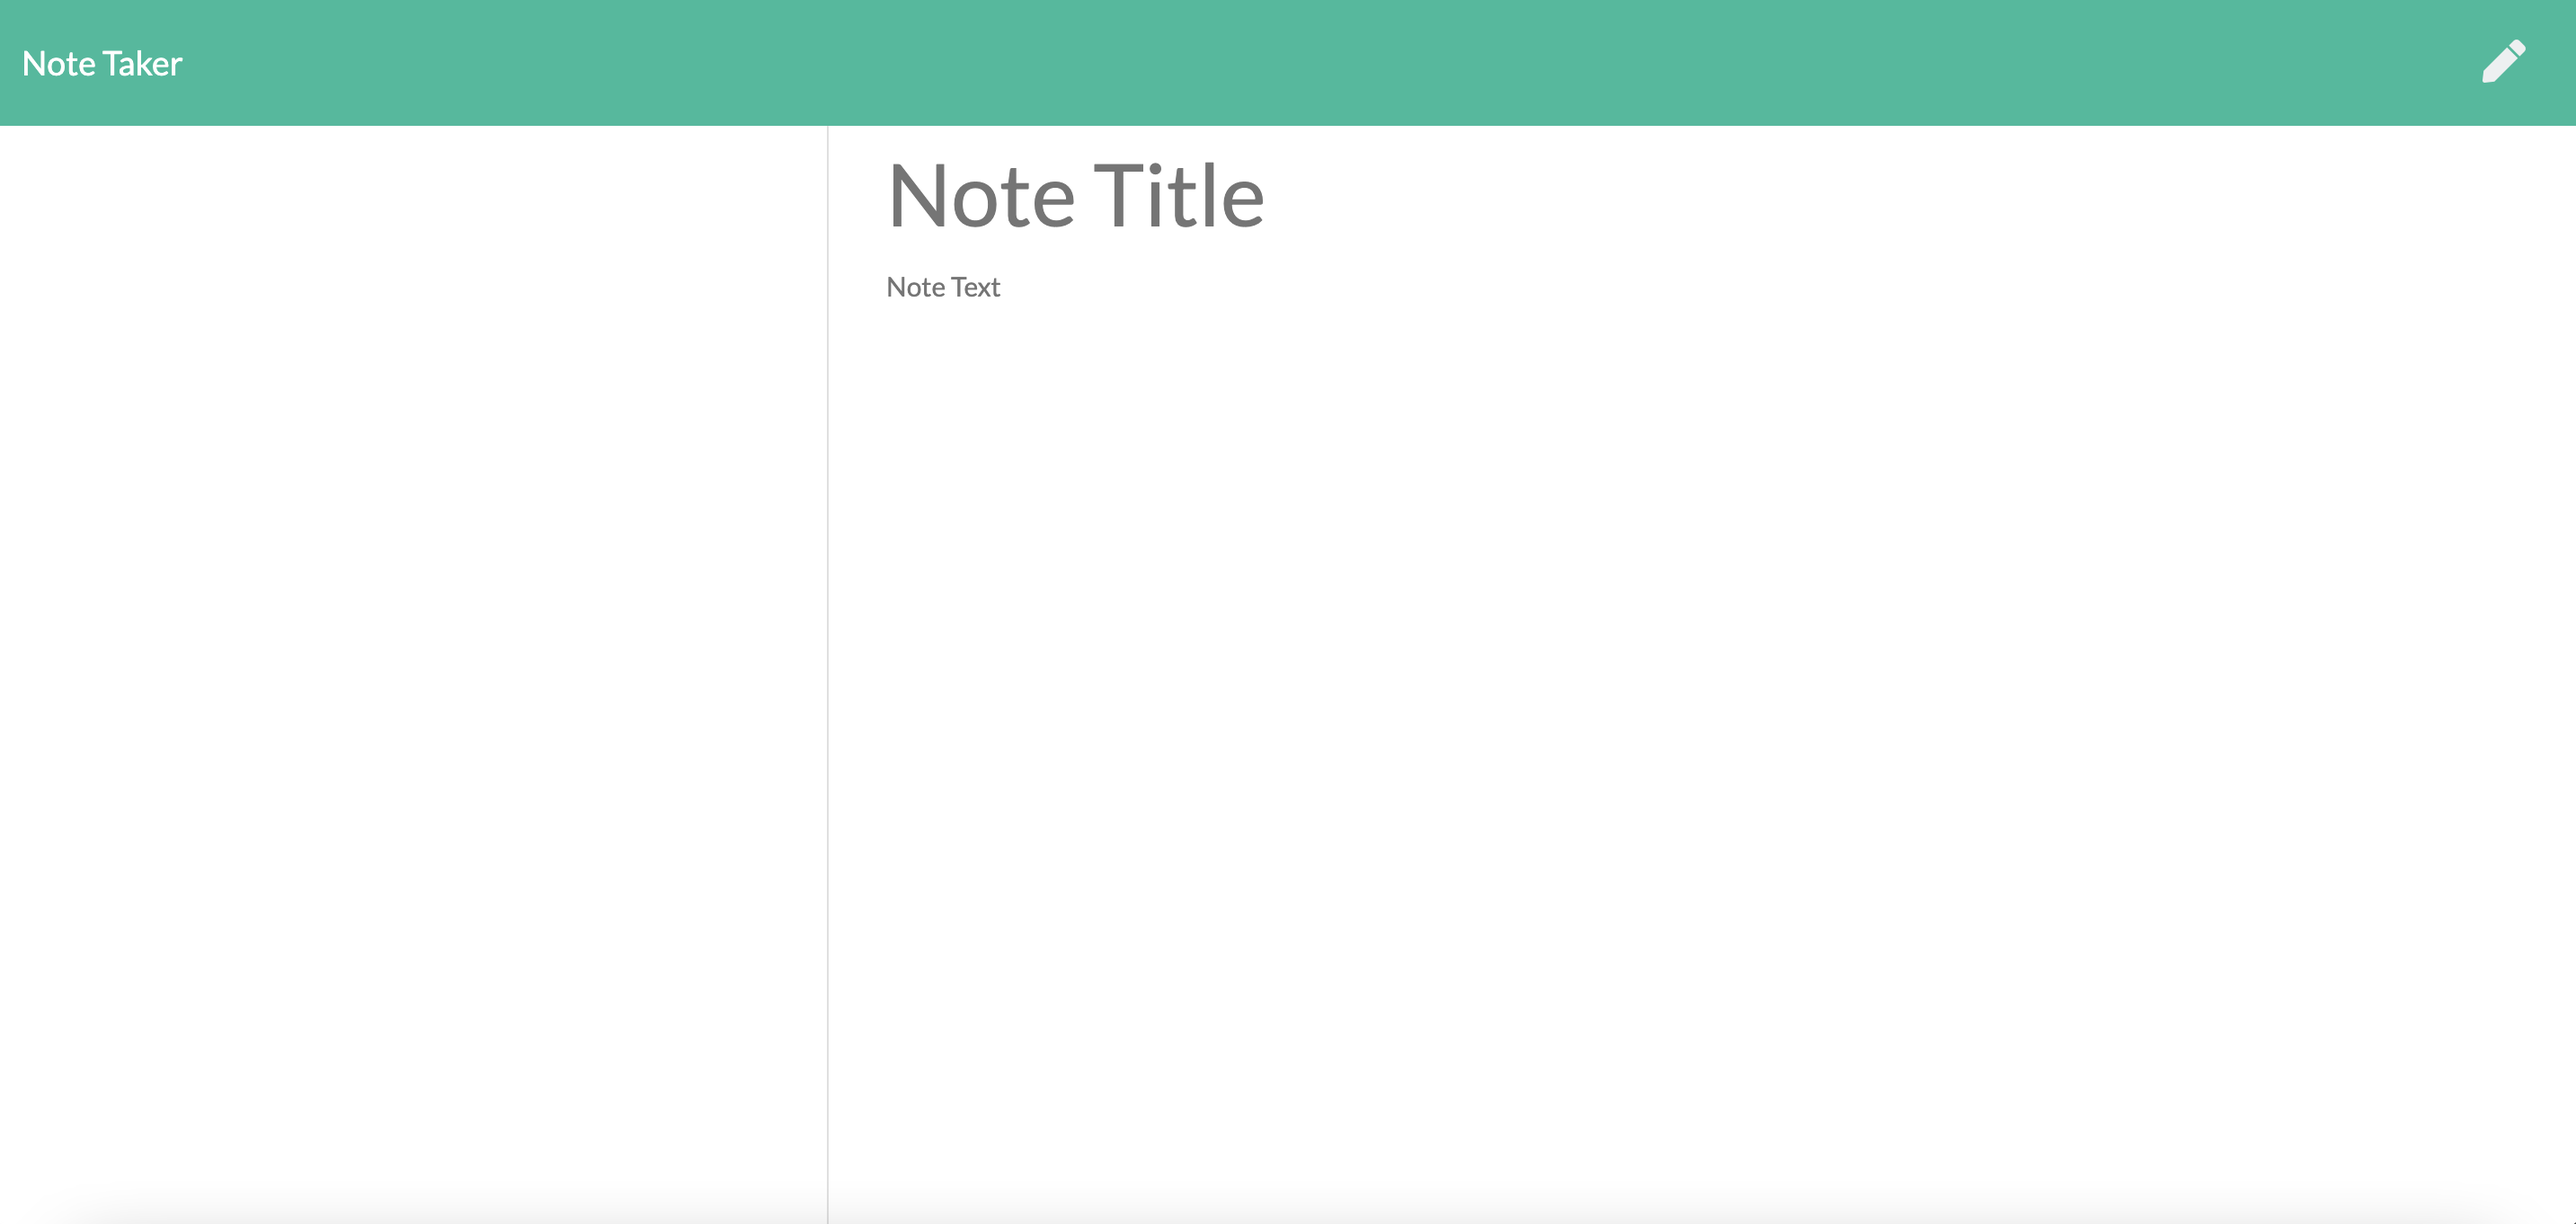
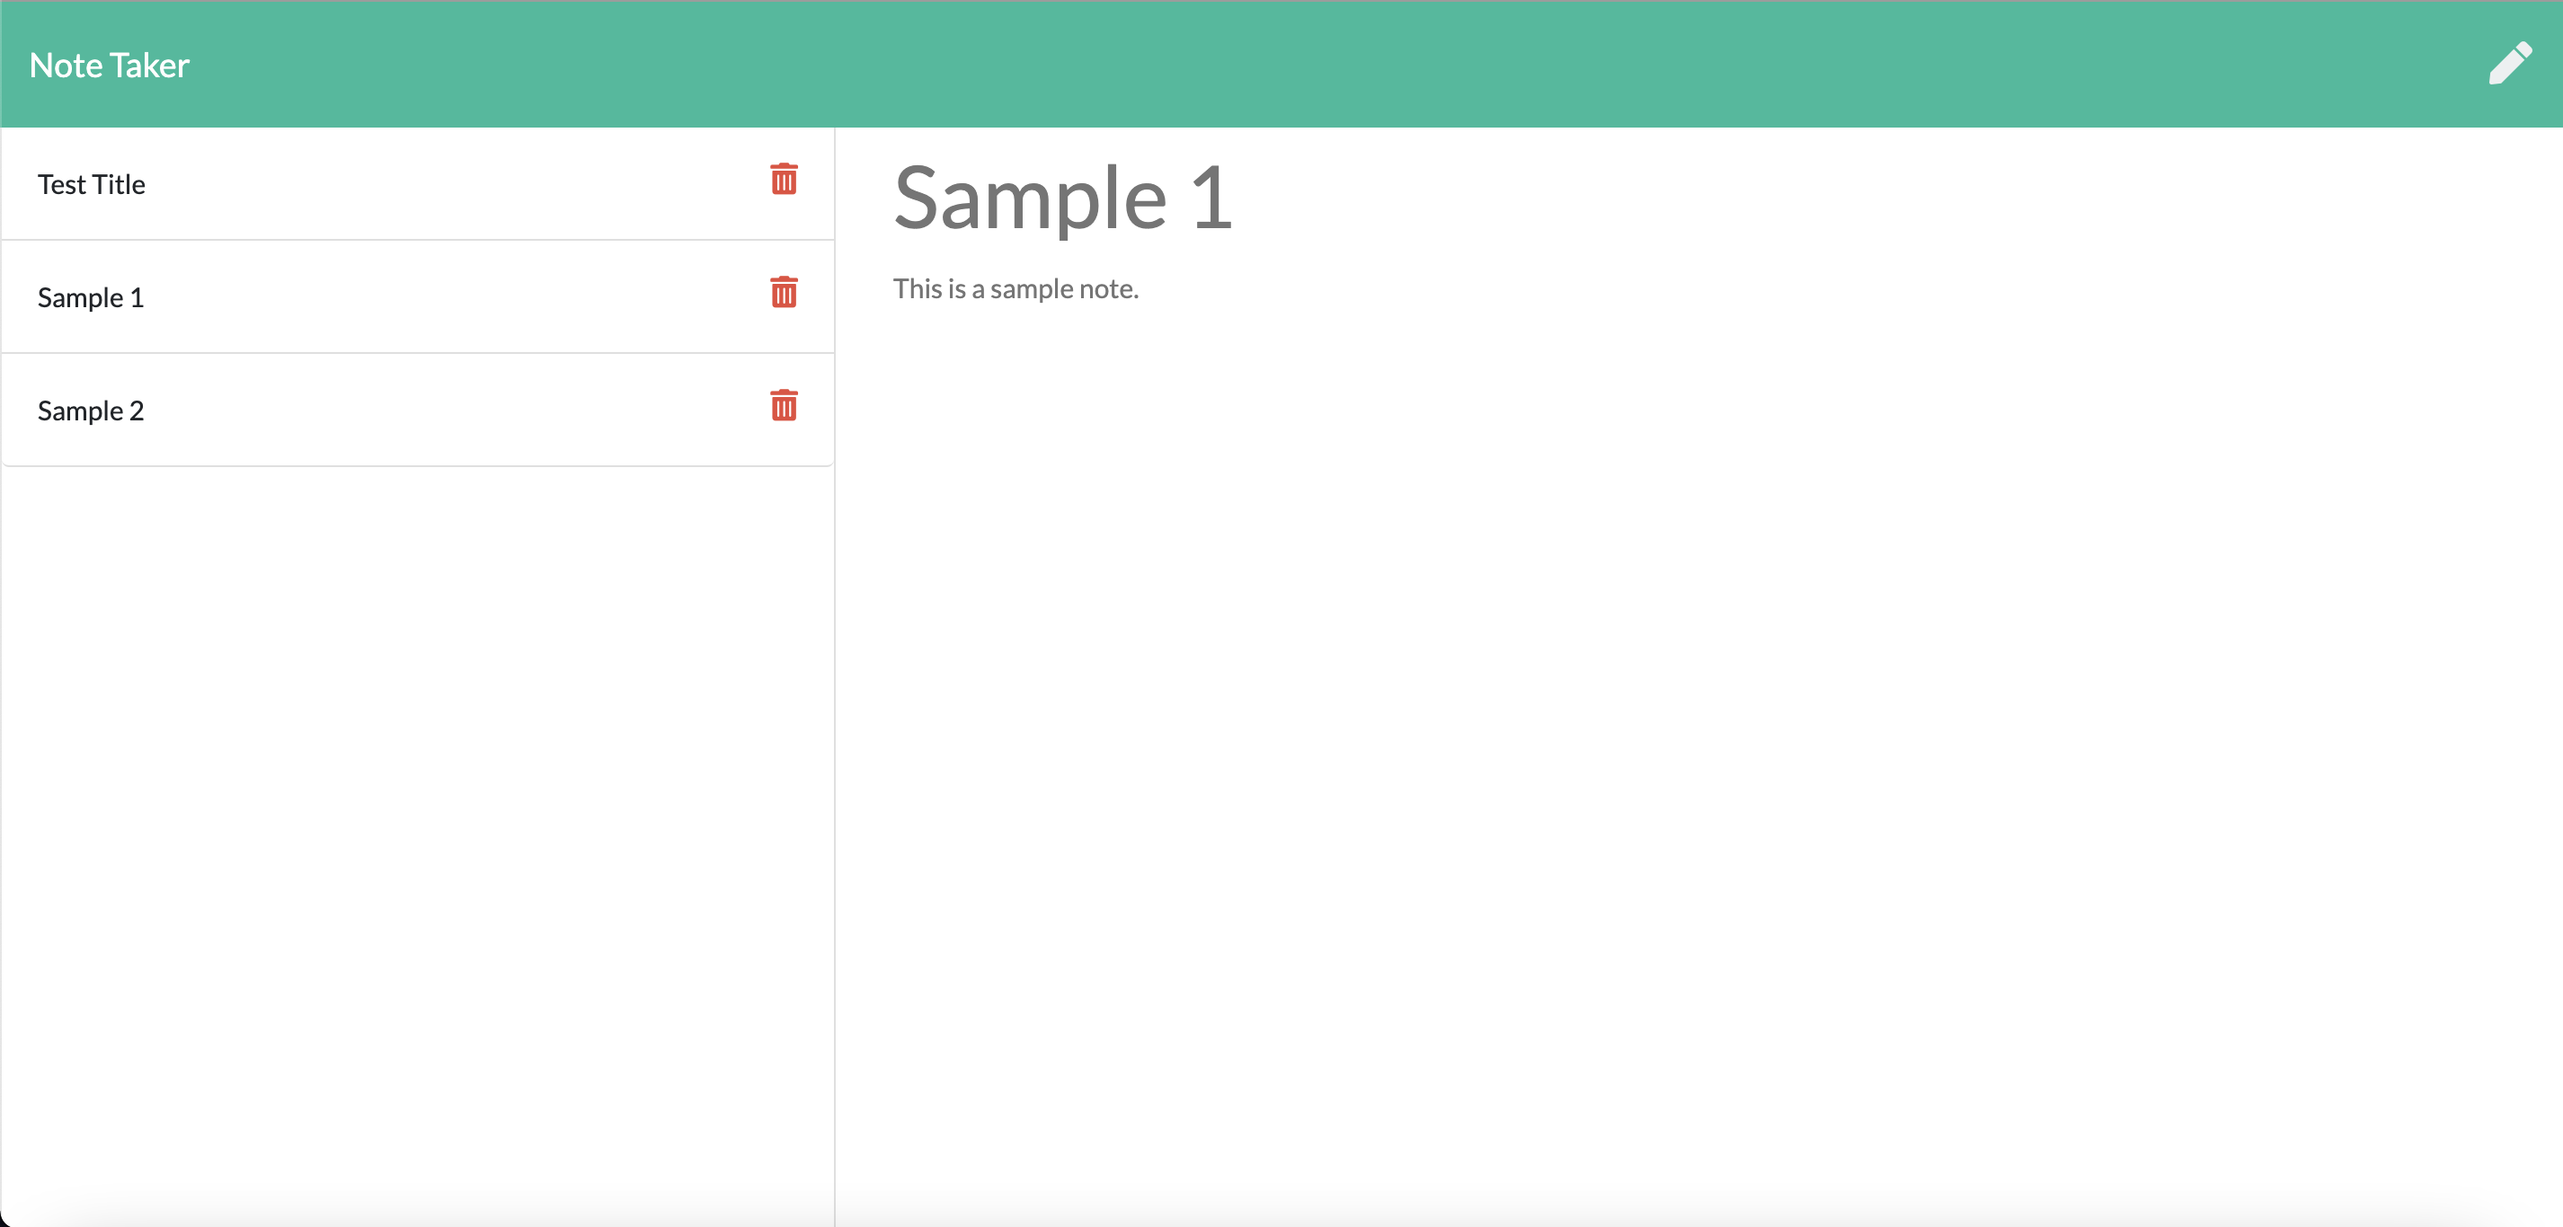
Fixed routing issue, app now works. Updated README with new screenshot.

diff --git a/routes/notes.js b/routes/notes.js
@@ -1,70 +1,81 @@
 const fs = require("fs");
 const express = require("express");
 const router = express.Router();
-const notesDB = require("../db/db.json");
 // NPM package that allows adding of unique IDs
 const { v4: uuidv4 } = require("uuid");
 
-module.exports = (router) => {
-	// * `GET /api/notes/` should read the `db.json` file and return all saved notes as JSON.
-	router.get("/", (req, res) => {
-		fs.readFile("../db/db.json", "utf8", (err, notesDB) => {
-			if (err) throw err;
-			let notes = JSON.parse(notesDB);
-			res.json(notes);
-		});
+router.get("/", (req, res) => {
+	fs.readFile("./db/db.json", "utf8", (err, notesDB) => {
+		if (err) throw err;
+		res.json(JSON.parse(notesDB));
 	});
+});
 
-	// * `POST /api/notes` should receive a new note to save on the request body,
-	// add it to the `db.json` file, and then return the new note to the client.
-	router.post("/", (req, res) => {
+router.post("/", (req, res) => {
+	fs.readFile("./db/db.json", "utf8", (err, notesDB) => {
+		if (err) throw err;
+		let notes = JSON.parse(notesDB);
+		let notesID = uuidv4();
 
-		fs.readFile(__dirname + "../db/db.json", 'utf8', (error, notesDB) => {
-			if (error) throw err;
-			let notes = JSON.parse(notesDB);
-			let notesID = uuidv4();
+		const newNotesData = {
+			title: req.body.title,
+			text: req.body.text,
+			id: notesID,
+		};
 
-			const newNotesData = {
-				title: req.body.title,
-				text: req.body.text,
-				id: notesID,
-			};
+		let activeNote = notes.concat(newNotesData);
 
-			console.log(" ----- This is testing the notesData ----- ", newNotesData);
-
-			let activeNote = notes.concat(newNotesData);
-
-			fs.writeFile(__dirname + "../db/db.json", JSON.stringify(activeNote), (error, activeNote) => {
-				if (error) {return error};
-				console.log("This is a console log for activeNote data ---> ", activeNote);
+		fs.writeFile("./db/db.json",JSON.stringify(activeNote), (err, activeNote) => {
+				if (err) throw err;
+				console.log(
+					"This is a console log for activeNote data ---> ",
+					activeNote
+				);
 				res.json(activeNote);
-			});
-		});
-	});
-
-	// * `DELETE /api/notes/:id` should receive a query parameter containing the id of a note to delete.
-	// In order to delete a note, you'll need to read all notes from the `db.json` file, remove the note with the given `id` property,
-	// and then rewrite the notes to the `db.json` file.
-	router.delete("/:id", (req, res) => {
-
-		console.log(" ----- This is a delete test for some notes ----- ", notesDB);
-
-		let notesID = JSON.parse(req.params.id);
-
-		console.log("This is a console log for the notesID ---> ", notesID);
-
-		fs.readFile(__dirname + "/db/db.json", 'utf8', function (error, notes) {
-			if (error) {
-			  return console.log(error)
 			}
-
-			// After read, locate file via notesID
-
-			// upon locating notesID, delete.
-		})
-		
-
+		);
 	});
+});
 
-	// If have time, put an edit notes function (router.put)?
-};
+router.delete("/:id", (req, res) => {
+	const notesID = req.params.id;
+
+	console.log("This is a console log for DELETE notesID ---> ", notesID);
+
+	fs.readFile("./db/db.json", "utf8", (err, notes) => {
+		if (err) throw err;
+
+		notes = JSON.parse(notes);
+
+		notes = notes.filter(val => val.id !== notesID);
+
+		fs.writeFile("./db/db.json", JSON.stringify(notes), (err) => {
+				if (err) throw err;
+				res.json(notes);
+			}
+		);
+	});
+});
+
+router.put("/:id", (req, res) => {
+	console.log(" ----- This is a PUT (edit) test for notes ----- ");
+
+	const notesID = req.params.id;
+	console.log("This is a console log for PUT noteID ---> ", notesID);
+
+	fs.readFile("./db/db.json", "utf8", (err, notes) => {
+		if (err) throw err;
+
+		notes.JSONparse(notes);
+
+		notes = notes.filter(val => val.id !== noteId);
+
+		fs.writeFile("./db/db.json", JSON.stringify(notes), (err) => {
+			if (err) throw err;
+			res.json(notes);
+			}
+		);
+	});
+});
+
+module.exports = router;

diff --git a/README.md b/README.md
@@ -18,7 +18,14 @@ Live Link: <Insert Live Link Here>
 ## Description
 Note Taker is an application that can be used to write and save notes. This application will use an Express.js back-end and will save and retrieve note data from a JSON file.
 
-The live application is deployed at Heroku.
+This application makes use of the following technologies:
+* HTML
+* CSS
+* JavaScript
+* Node JS
+* Express JS
+* UUIDV4
+* Heroku (App Deployment)
 
 ## License
 MIT License
